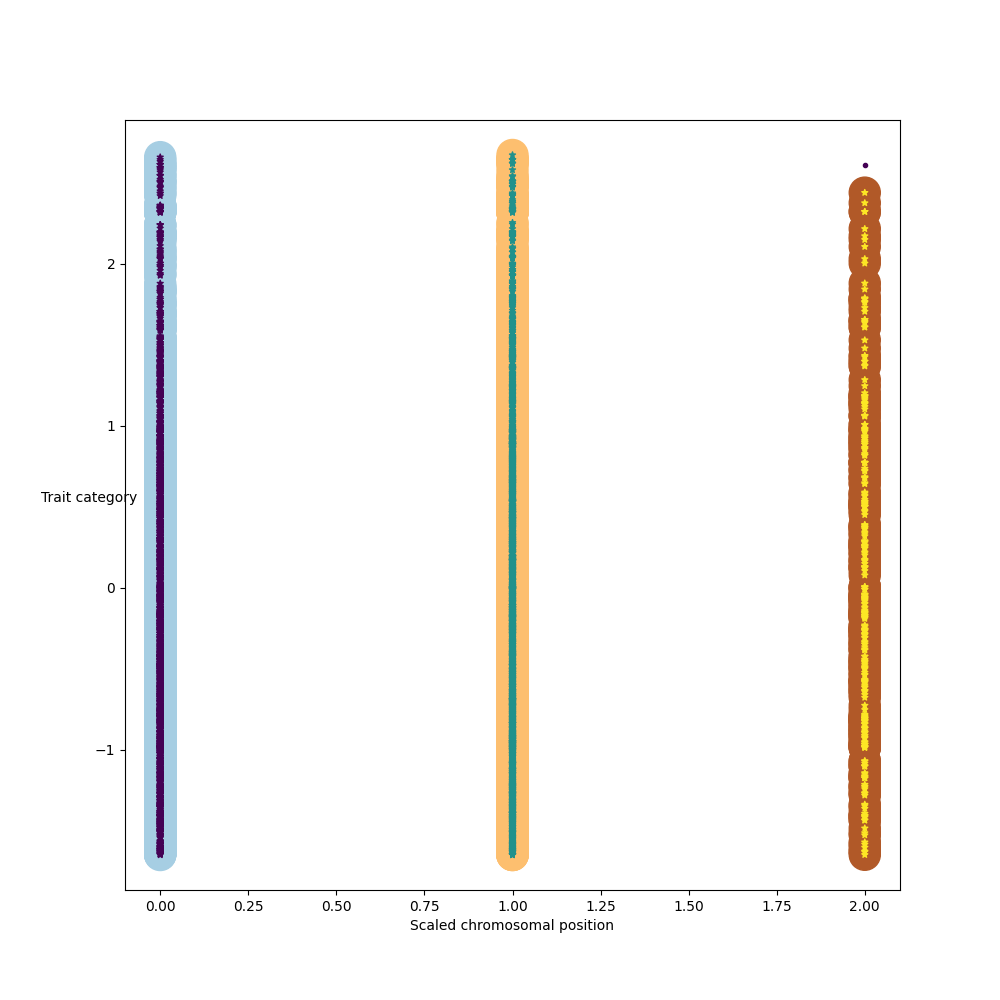
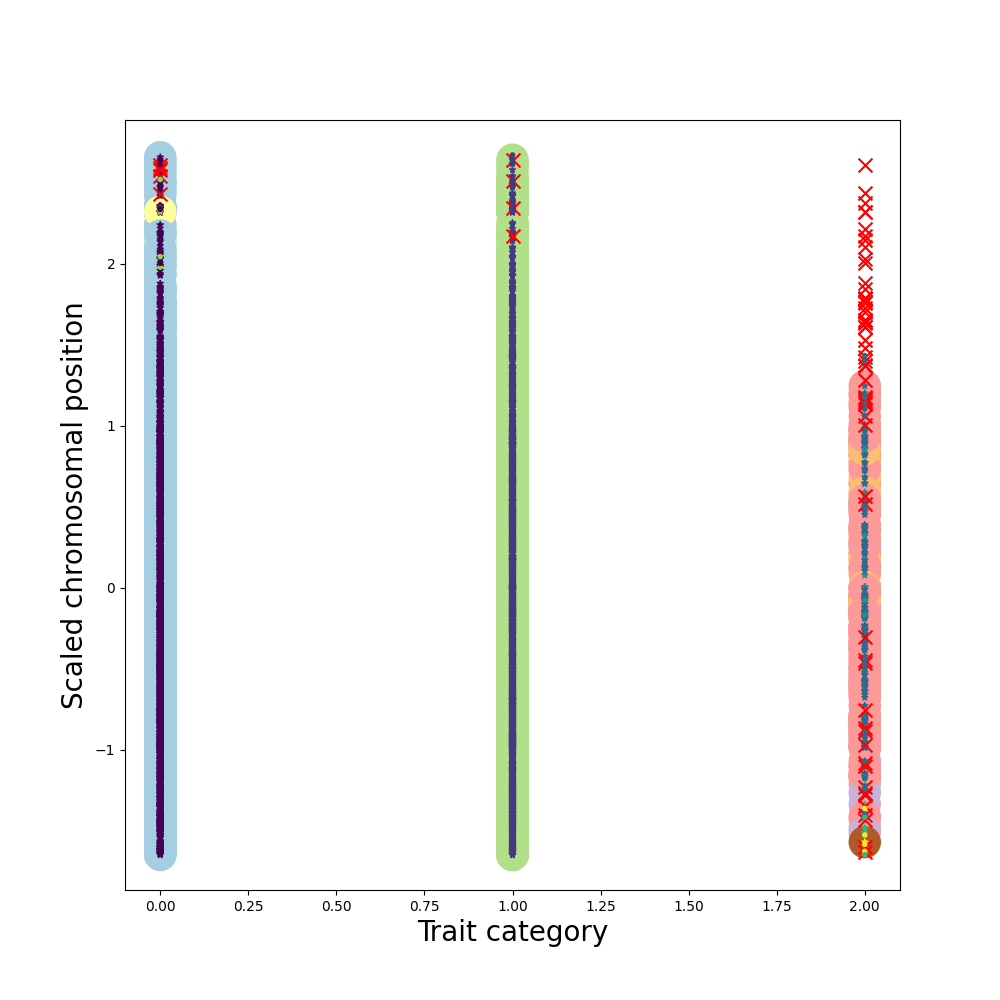
Wrapping up with label fixing

diff --git a/scripts/kmeans_clustering.py b/scripts/kmeans_clustering.py
@@ -20,7 +20,7 @@ from vector_data import X_train, X_valid, X_test
 
 import numpy as np
 
-X_train=np.array(X_train.iloc[: 5000, [0, 2]]) # select transformed_pos (1) and transformed_desc (-1) columns
+X_train=np.array(X_train.iloc[: 5000, [0, 2]]) # select desc, transformed_pos, and transformed_desc columns
 X_valid=np.array(X_valid.iloc[: 5000, [0, 2]]) # same
 X_test=np.array(X_test.iloc[: 5000, [0, 2]]) # same
 
@@ -58,11 +58,11 @@ def find_n_clusters(a, b):
         if sil_score[i]==max(sil_score.values()):
             best_n_clusters.append([i, sil_score[i]]) # update the best number of clusters
 
-    print('The best number of clusters with its silhouette score in that range ', ran, ' is :', best_n_clusters[0])
+    print('The best number of clusters with its silhouette score in ', ran, ' is :', best_n_clusters[0])
 
 # 2.1.2. Find the best number of clusters
 
-find_n_clusters(1500, 1700) # can experiment different values but experimentations show that the silhouette score of this model is less than 0.5 when the number of clusters is less than 1000
+find_n_clusters(1650, 1700) # can experiment different values but experimentations show that the best silhouette score of this model is within this range
 
 # 2.2. Run KMeans for the best number of clusters on training and display learning results
 
@@ -88,7 +88,7 @@ import matplotlib.pyplot as plt # import plot manager
 
 def plot_data(X):
     """
-    plot data according to transformed_pos (1) and transformed_desc (-1)
+    plot data according to desc and transformed_pos
     """
     plt.plot(X[:, 0], X[:, 1], 'k.', markersize=2)
     
@@ -99,8 +99,8 @@ def plot_centroids(centroids, weights=None, circle_color='w', cross_color='k'):
     """
     if weights is not None:
         centroids=centroids[weights > weights.max()/10]
-    plt.scatter(centroids[:, 0], centroids[:, 1], marker='o', s=35, linewidths=8, color=circle_color, zorder=10, alpha=0.9)
-    plt.scatter(centroids[:, 0], centroids[:, 1], marker='x', s=2, linewidths=12, color=cross_color, zorder=11, alpha=1)
+    plt.scatter(centroids[:, 0], centroids[:, 1], marker='o', s=35, linewidths=8, color=circle_color, zorder=10, alpha=0.4)
+    plt.scatter(centroids[:, 0], centroids[:, 1], marker='x', s=2, linewidths=12, color=cross_color, zorder=11, alpha=0.6)
     
 
 def plot_decision_boundaries(clusterer, X, resolution=1000, show_centroids=True, show_xlabels=True, show_ylabels=True):
@@ -114,7 +114,7 @@ def plot_decision_boundaries(clusterer, X, resolution=1000, show_centroids=True,
     Z=Z.reshape(xx.shape)
     
     plt.contourf(Z, extent=(mins[0], maxs[0], mins[1], maxs[1]), cmap="Pastel2")
-    plt.contour(Z, extent=(mins[0], maxs[0], mins[1], maxs[1]), linewidths=1, colors='k')
+    plt.contour(Z, extent=(mins[0], maxs[0], mins[1], maxs[1]), linewidths=1, colors='k', alpha=0.5)
     
     plot_data(X)
     
@@ -122,11 +122,11 @@ def plot_decision_boundaries(clusterer, X, resolution=1000, show_centroids=True,
         plot_centroids(clusterer.cluster_centers_)
         
     if show_xlabels:
-        plt.xlabel("Trait category", fontsize=10)
+        plt.xlabel("Trait category", fontsize=20)
     else:
         plt.tick_params(labelbottom=False)
     if show_ylabels:
-        plt.ylabel("Scaled chromosomal position", fontsize=10, rotation=0)
+        plt.ylabel("Scaled chromosomal position", fontsize=20, rotation=90)
     else:
         plt.tick_params(labelleft=False)
         

diff --git a/scripts/dbscan_clustering_knn_prediction.py b/scripts/dbscan_clustering_knn_prediction.py
@@ -15,9 +15,9 @@ from vector_data import X_train, X_valid, X_test
 
 import numpy as np
 
-X_train=np.array(X_train.iloc[: 5000, [0, 2]]) # select 5000 first columns of transformed_pos (1) and transformed_desc (-1) columns
-X_valid=np.array(X_valid.iloc[: 5000, [0, 2]]) # same
-X_test=np.array(X_test.iloc[: 5000, [0, 2]]) # same
+X_train=np.array(X_train.iloc[: 5000, [0, 2, -1]]) # select 5000 first columns of desc, transformed_pos and transformed_p_lrt
+X_valid=np.array(X_valid.iloc[: 5000, [0, 2, -1]]) # same
+X_test=np.array(X_test.iloc[: 5000, [0, 2, -1]]) # same
 
 
 
@@ -58,12 +58,12 @@ def plot_dbscan(dbscan, X, size, show_xlabels=True, show_ylabels=True):
     plt.scatter(non_cores[:, 0], non_cores[:, 1], c=dbscan.labels_[non_core_mask], marker=".")
     
     if show_xlabels:
-        plt.xlabel("Trait category", fontsize=10)
+        plt.xlabel("Trait category", fontsize=20)
     else:
         plt.tick_params(labelbottom=False)
     
     if show_ylabels:
-        plt.ylabel("Scaled chromosomal position", fontsize=10, rotation=0)
+        plt.ylabel("Scaled chromosomal position", fontsize=20, rotation=90)
     else:
         plt.tick_params(labelleft=False)
     

diff --git a/scripts/dbscan_clustering_svm_prediction.py b/scripts/dbscan_clustering_svm_prediction.py
@@ -15,9 +15,9 @@ from vector_data import X_train, X_valid, X_test
 
 import numpy as np
 
-X_train=np.array(X_train.iloc[: 5000, [0, 2]]) # select transformed_pos (2) and transformed_desc (0) columns
-X_valid=np.array(X_valid.iloc[: 5000, [0, 2]]) # same
-X_test=np.array(X_test.iloc[: 5000, [0, 2]]) # same
+X_train=np.array(X_train.iloc[: 5000, [0, 2, -1]]) # select desc,  transformed_pos and transformed_desc columns
+X_valid=np.array(X_valid.iloc[: 5000, [0, 2, -1]]) # same
+X_test=np.array(X_test.iloc[: 5000, [0, 2, -1]]) # same
 
 
 
@@ -58,12 +58,12 @@ def plot_dbscan(dbscan, X, size, show_xlabels=True, show_ylabels=True):
     plt.scatter(non_cores[:, 0], non_cores[:, 1], c=dbscan.labels_[non_core_mask], marker=".")
     
     if show_xlabels:
-        plt.xlabel("Trait category", fontsize=10)
+        plt.xlabel("Trait category", fontsize=20)
     else:
         plt.tick_params(labelbottom=False)
     
     if show_ylabels:
-        plt.ylabel("Scaled chromosomal position", fontsize=10, rotation=0)
+        plt.ylabel("Scaled chromosomal position", fontsize=20, rotation=90)
     else:
         plt.tick_params(labelleft=False)
     

diff --git a/scripts/dbscan_clustering_randomforest_prediction.py b/scripts/dbscan_clustering_randomforest_prediction.py
@@ -15,9 +15,9 @@ from vector_data import X_train, X_valid, X_test
 
 import numpy as np
 
-X_train=np.array(X_train.iloc[: 5000, [0, 2]]) # select transformed_pos (2) and transformed_desc (0) columns
-X_valid=np.array(X_valid.iloc[: 5000, [0, 2]]) # same
-X_test=np.array(X_test.iloc[: 5000, [0, 2]]) # same
+X_train=np.array(X_train.iloc[: 5000, [0, 2, -1]]) # select desc, transformed_pos and transformed_desc columns
+X_valid=np.array(X_valid.iloc[: 5000, [0, 2, -1]]) # same
+X_test=np.array(X_test.iloc[: 5000, [0, 2, -1]]) # same
 
 
 
@@ -58,12 +58,12 @@ def plot_dbscan(dbscan, X, size, show_xlabels=True, show_ylabels=True):
     plt.scatter(non_cores[:, 0], non_cores[:, 1], c=dbscan.labels_[non_core_mask], marker=".")
     
     if show_xlabels:
-        plt.xlabel("Trait category", fontsize=10)
+        plt.xlabel("Trait category", fontsize=20)
     else:
         plt.tick_params(labelbottom=False)
     
     if show_ylabels:
-        plt.ylabel("Scaled chromosomal position", fontsize=10, rotation=0)
+        plt.ylabel("Scaled chromosomal position", fontsize=20, rotation=90)
     else:
         plt.tick_params(labelleft=False)
     
